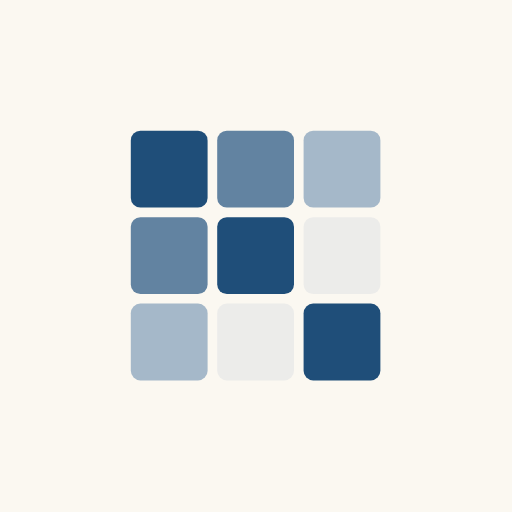
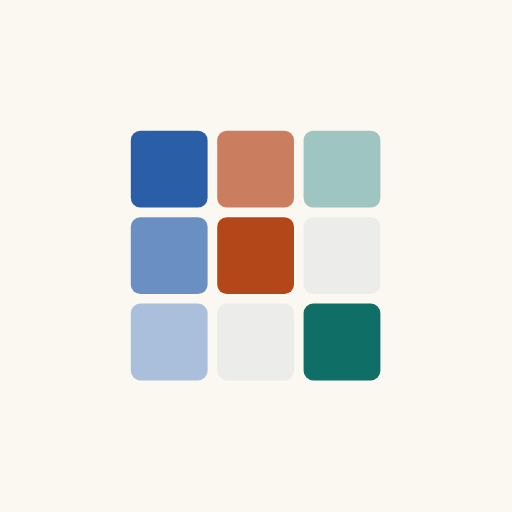
feat(brand): draw the standalone mark in the contributor hues
The grid colours each contributor by default since 0.12.0, and the social
card's heatmap already does, so the mono ink-blue mark showed a view few
people see. Each column of the favicon, app icons and card mark now takes
one of the first three CONTRIBUTOR_HUES at heatCellColor's tiers; the
favicon switches to the dark ramp under prefers-color-scheme: dark.
DESIGN.md's brand rule changes to match.

Changed region(s): [[0.25, 0.25, 0.5938, 0.5938], [0.5938, 0.5938, 0.75, 0.75]]

diff --git a/docs/brand/apple-icon.html b/docs/brand/apple-icon.html
@@ -2,7 +2,7 @@
 <style>html,body{margin:0;padding:0}body{width:180px;height:180px;background:#fbf8f1;display:grid;place-items:center}</style>
 <!-- iOS masks the icon itself, so the paper ground bleeds full-square and only the grid is inset. -->
 <svg width="126" height="126" viewBox="0 0 32 32"><title>CRediT Matrix</title>
- <rect x="3" y="3" width="8" height="8" rx="1" fill="#1f4e79"/><rect x="12" y="3" width="8" height="8" rx="1" fill="#6283a1"/><rect x="21" y="3" width="8" height="8" rx="1" fill="#a5b8c9"/>
- <rect x="3" y="12" width="8" height="8" rx="1" fill="#6283a1"/><rect x="12" y="12" width="8" height="8" rx="1" fill="#1f4e79"/><rect x="21" y="12" width="8" height="8" rx="1" fill="#ececea"/>
- <rect x="3" y="21" width="8" height="8" rx="1" fill="#a5b8c9"/><rect x="12" y="21" width="8" height="8" rx="1" fill="#ececea"/><rect x="21" y="21" width="8" height="8" rx="1" fill="#1f4e79"/>
+ <rect x="3" y="3" width="8" height="8" rx="1" fill="#2a5fa8"/><rect x="12" y="3" width="8" height="8" rx="1" fill="#cb7e5f"/><rect x="21" y="3" width="8" height="8" rx="1" fill="#9fc5c2"/>
+ <rect x="3" y="12" width="8" height="8" rx="1" fill="#6a8fc2"/><rect x="12" y="12" width="8" height="8" rx="1" fill="#b4471a"/><rect x="21" y="12" width="8" height="8" rx="1" fill="#ececea"/>
+ <rect x="3" y="21" width="8" height="8" rx="1" fill="#aabfdc"/><rect x="12" y="21" width="8" height="8" rx="1" fill="#ececea"/><rect x="21" y="21" width="8" height="8" rx="1" fill="#0f6e66"/>
 </svg>

diff --git a/docs/brand/opengraph-image.html b/docs/brand/opengraph-image.html
@@ -34,9 +34,9 @@
 <div class="left">
   <div class="lock">
     <svg width="44" height="44" viewBox="0 0 32 32"><title>CRediT Matrix</title>
-      <rect x="3" y="3" width="8" height="8" rx="1" fill="#1f4e79"/><rect x="12" y="3" width="8" height="8" rx="1" fill="#6283a1"/><rect x="21" y="3" width="8" height="8" rx="1" fill="#a5b8c9"/>
-      <rect x="3" y="12" width="8" height="8" rx="1" fill="#6283a1"/><rect x="12" y="12" width="8" height="8" rx="1" fill="#1f4e79"/><rect x="21" y="12" width="8" height="8" rx="1" fill="#ececea"/>
-      <rect x="3" y="21" width="8" height="8" rx="1" fill="#a5b8c9"/><rect x="12" y="21" width="8" height="8" rx="1" fill="#ececea"/><rect x="21" y="21" width="8" height="8" rx="1" fill="#1f4e79"/>
+      <rect x="3" y="3" width="8" height="8" rx="1" fill="#2a5fa8"/><rect x="12" y="3" width="8" height="8" rx="1" fill="#cb7e5f"/><rect x="21" y="3" width="8" height="8" rx="1" fill="#9fc5c2"/>
+      <rect x="3" y="12" width="8" height="8" rx="1" fill="#6a8fc2"/><rect x="12" y="12" width="8" height="8" rx="1" fill="#b4471a"/><rect x="21" y="12" width="8" height="8" rx="1" fill="#ececea"/>
+      <rect x="3" y="21" width="8" height="8" rx="1" fill="#aabfdc"/><rect x="12" y="21" width="8" height="8" rx="1" fill="#ececea"/><rect x="21" y="21" width="8" height="8" rx="1" fill="#0f6e66"/>
     </svg>
     <span class="wm">CRediT Matrix</span>
   </div>

diff --git a/docs/brand/maskable-icon.html b/docs/brand/maskable-icon.html
@@ -4,7 +4,7 @@
 <style>html,body{margin:0;padding:0}body{width:100vw;height:100vh;background:#fbf8f1;display:grid;place-items:center}
 svg{width:60%;height:60%}</style>
 <svg viewBox="0 0 32 32"><title>CRediT Matrix</title>
- <rect x="3" y="3" width="8" height="8" rx="1" fill="#1f4e79"/><rect x="12" y="3" width="8" height="8" rx="1" fill="#6283a1"/><rect x="21" y="3" width="8" height="8" rx="1" fill="#a5b8c9"/>
- <rect x="3" y="12" width="8" height="8" rx="1" fill="#6283a1"/><rect x="12" y="12" width="8" height="8" rx="1" fill="#1f4e79"/><rect x="21" y="12" width="8" height="8" rx="1" fill="#ececea"/>
- <rect x="3" y="21" width="8" height="8" rx="1" fill="#a5b8c9"/><rect x="12" y="21" width="8" height="8" rx="1" fill="#ececea"/><rect x="21" y="21" width="8" height="8" rx="1" fill="#1f4e79"/>
+ <rect x="3" y="3" width="8" height="8" rx="1" fill="#2a5fa8"/><rect x="12" y="3" width="8" height="8" rx="1" fill="#cb7e5f"/><rect x="21" y="3" width="8" height="8" rx="1" fill="#9fc5c2"/>
+ <rect x="3" y="12" width="8" height="8" rx="1" fill="#6a8fc2"/><rect x="12" y="12" width="8" height="8" rx="1" fill="#b4471a"/><rect x="21" y="12" width="8" height="8" rx="1" fill="#ececea"/>
+ <rect x="3" y="21" width="8" height="8" rx="1" fill="#aabfdc"/><rect x="12" y="21" width="8" height="8" rx="1" fill="#ececea"/><rect x="21" y="21" width="8" height="8" rx="1" fill="#0f6e66"/>
 </svg>

diff --git a/DESIGN.md b/DESIGN.md
@@ -189,7 +189,7 @@ decorative tints, so the mark looks like the product's own data.
 
 Draw the mark in `currentColor` wherever it sits beside text, as it does in the header lockup. With
 colour by contributor each column of the mark takes one contributor's hue, as the grid's columns do. Where
-it stands alone, use the ink-blue levels themselves. The lockup is the mark at cap height, then a
+it stands alone (favicon, app icons, social card), each column takes one of the first three contributor hues. The lockup is the mark at cap height, then a
 gap, then the wordmark (the name set as type) in Newsreader italic. Never letterspace the wordmark.
 It takes the accent: the mark's hue where that reaches text contrast, deepened where it does not, so the
 mark and the wordmark read as one colour.

diff --git a/docs/brand/README.md b/docs/brand/README.md
@@ -1,8 +1,9 @@
 # Brand assets
 
-The rules for the mark and the lockup are in [DESIGN.md](../../DESIGN.md#brand). The mark's cell
-fills are the app's real heatmap levels from `src/core/contributor-color.ts`: white mixed 0.4, 0.7,
-and 1.0 of the way toward ink-blue, plus the fill of an empty cell.
+The rules for the mark and the lockup are in [DESIGN.md](../../DESIGN.md#brand). Each column of the
+mark is one contributor, in the first three `CONTRIBUTOR_HUES`, and its cell fills are the app's
+real heatmap levels from `heatCellColor` in `src/core/contributor-color.ts` (the light ramp, and in
+the favicon also the dark one), plus the fill of an empty cell.
 
 | Asset | Source | Output |
 | --- | --- | --- |

diff --git a/CHANGELOG.md b/CHANGELOG.md
@@ -8,7 +8,8 @@ adheres to [Semantic Versioning](https://semver.org/spec/v2.0.0.html).
 
 ### Changed
 
-- The favicon, app icons and social card use the warm paper and charcoal ink of the 0.12.0 theme.
+- The favicon, app icons and social card use the warm paper and charcoal ink of the 0.12.0 theme,
+  and the mark draws each column in one contributor's hue, as the grid does.
 - Search results and link previews describe asking co-authors to check their own row, and the
   preview image carries its full alt text and size.
 
